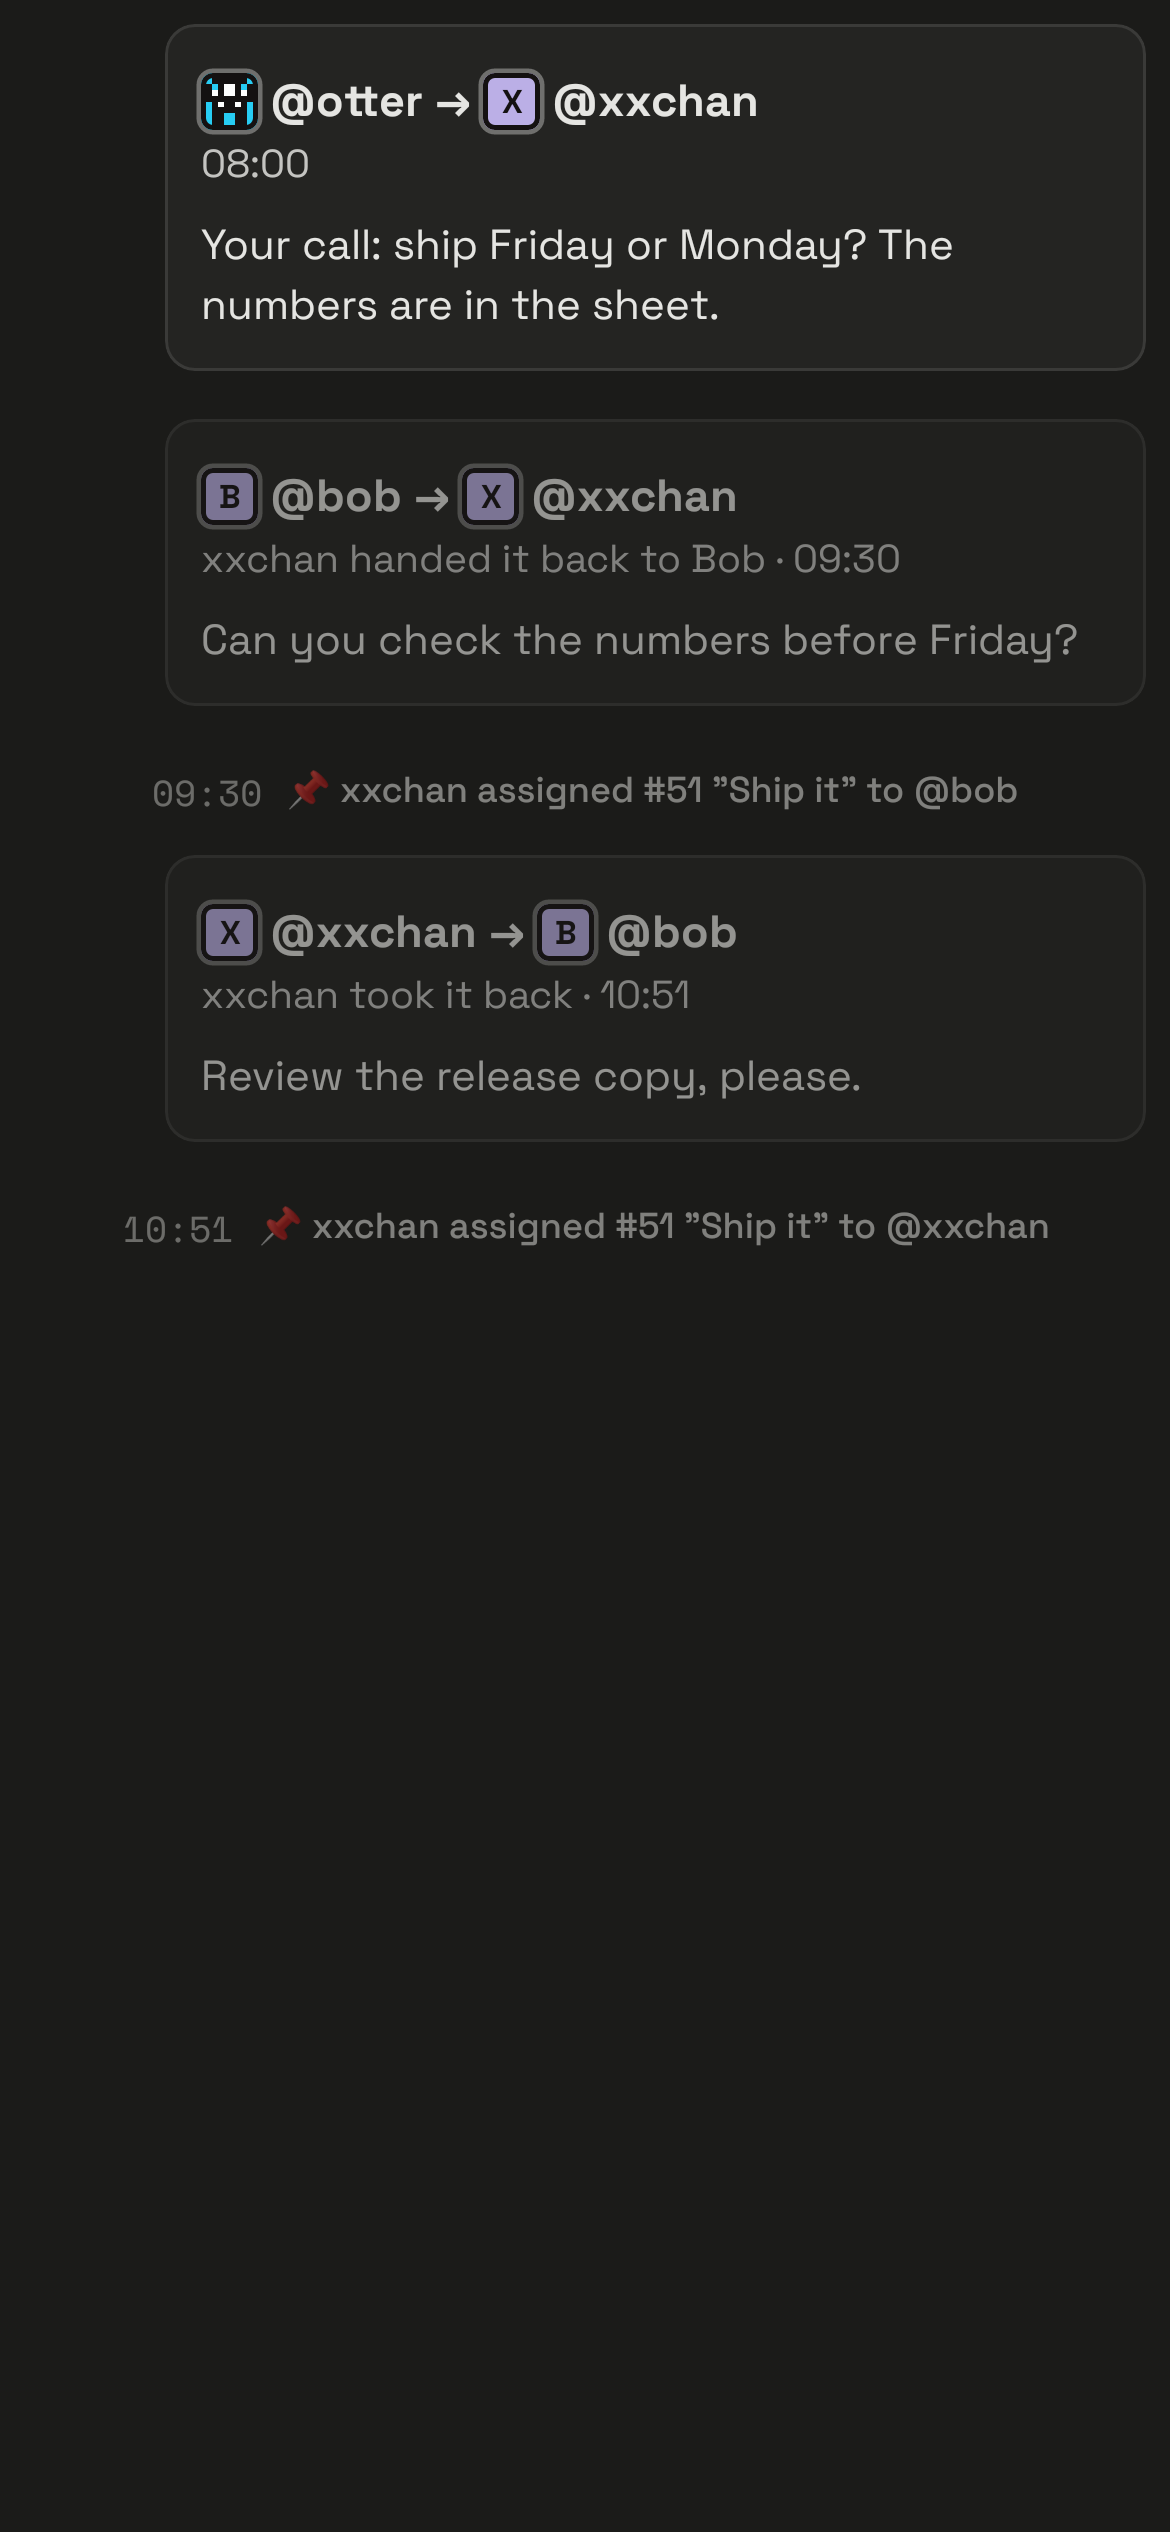
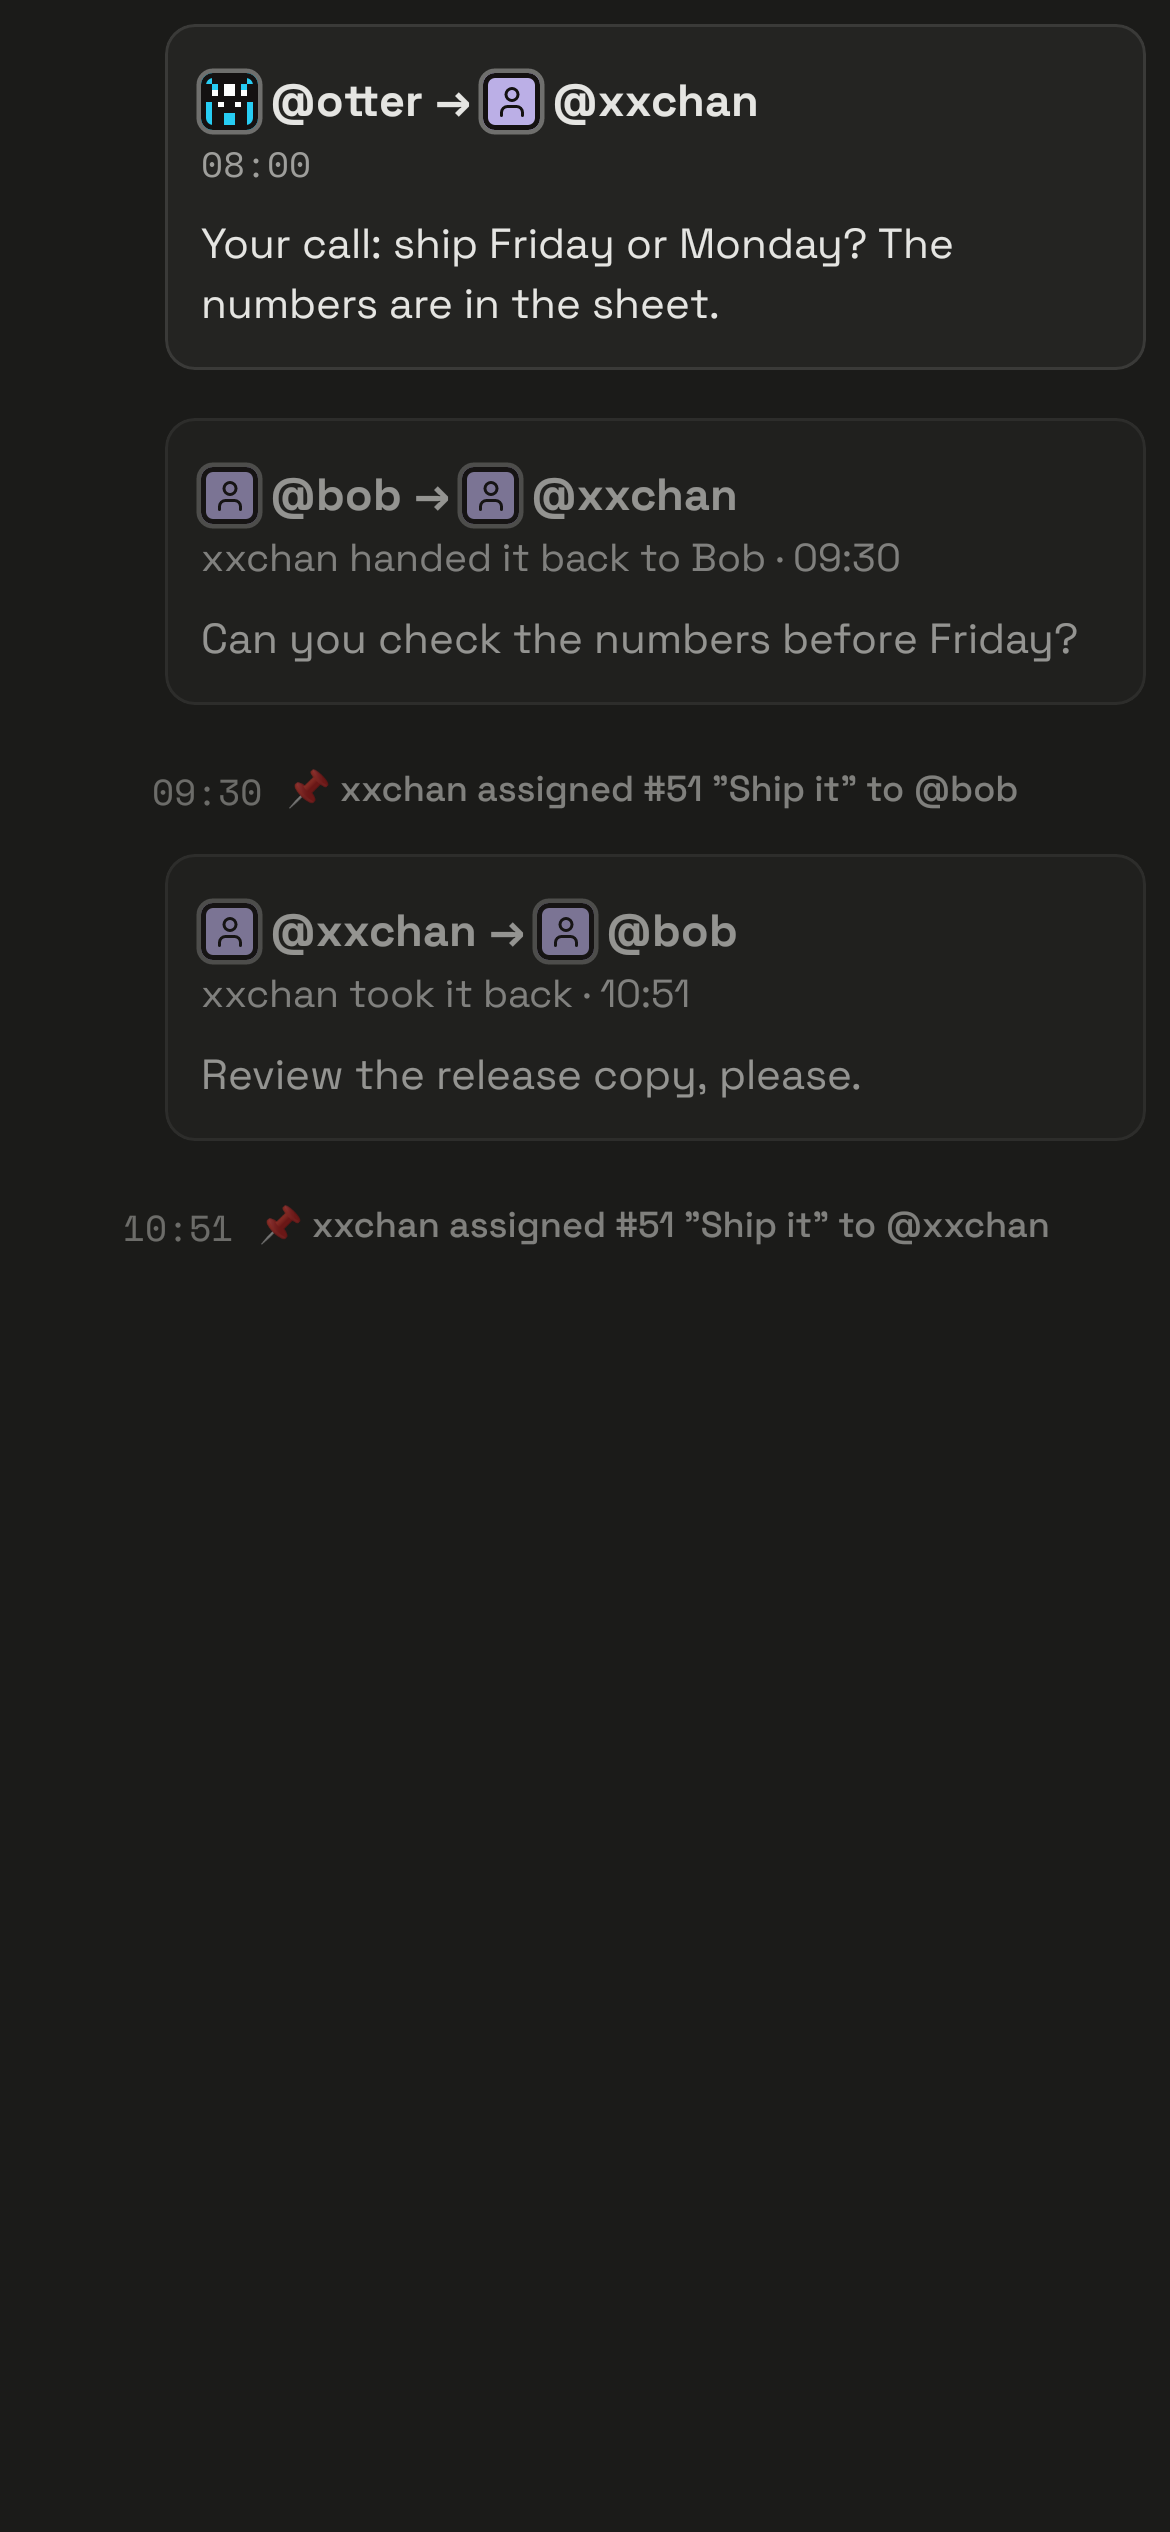
test(thread): record the hand-off card goldens; changeset for 1.25.0
Goldens recorded on hosted CI (Test run 43198896546, record_screenshots):
thread.task-handoff(.dark) with the time in Space Mono at the hint tier
(and the person placeholder from #4601 for members without a picture),
message_action_card_header_meta_{light,dark}.

diff --git a/change-logs/1.25.0/changesets/task-handoff-card-time.md b/change-logs/1.25.0/changesets/task-handoff-card-time.md
@@ -1,0 +1,22 @@
+---
+type: fixed
+area: tasks
+platforms:
+  - android
+  - ios
+  - desktop
+pull_request: 4617
+rollout: full
+---
+
+## zh-CN
+
+任务会话里的交接卡片（「[头像] @交出人 → [头像] @接手人」加上交接说明）中的时间改为与网页版一致：使用等宽字体，颜色更浅。
+
+## en
+
+In a task's conversation, the time on a hand-off card ("[avatar] @from → [avatar] @to" with the note) now matches the web: it uses a monospace font in a lighter colour.
+
+## ja
+
+タスクの会話にある引き継ぎカード（「[アバター] @渡した人 → [アバター] @受け取った人」とメモ）の時刻が、ウェブ版と同じく等幅フォントの薄い色で表示されるようになりました。
